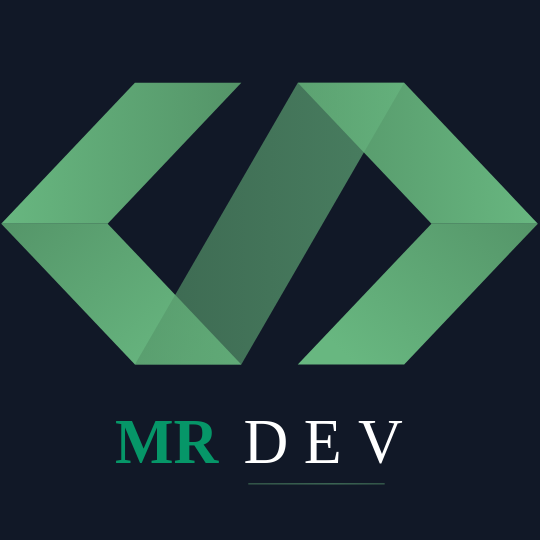
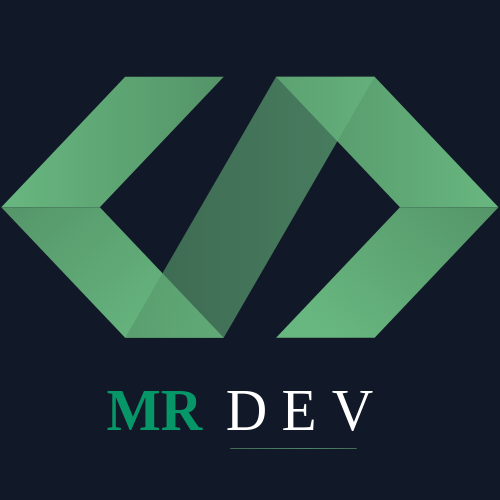
Imagem OG

diff --git a/app/page.tsx b/app/page.tsx
@@ -9,7 +9,7 @@ import { Metadata } from 'next'
 export const metadata: Metadata = {
   description: 'Olá! Seja bem-vindo ao meu portfólio!',
   openGraph: {
-    images: ['https://portfolio-mrdev-gamma.vercel.app/images/logo.svg'],
+    images: ['/images/imageOg.png'],
     authors: ['Maicon Rodrigues']
   }
 }
